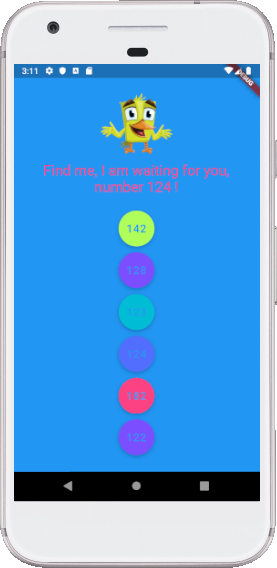
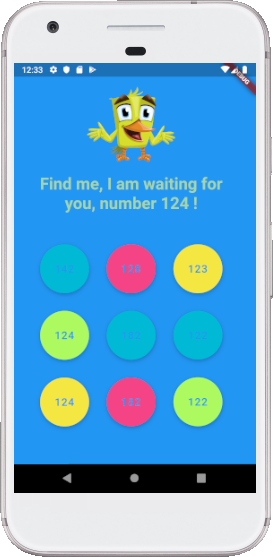
Layout changed

diff --git a/lib/quiz.dart b/lib/quiz.dart
@@ -49,20 +49,47 @@ class _QuizState extends State<Quiz> with TickerProviderStateMixin {
 
   @override
   Widget build(BuildContext context) {
-    return Column(
-      children: [
-        Question(widget.questions[widget.questionIndex]['questioText']),
-        ...(widget.questions[widget.questionIndex]['answers']
-                as List<Map<String, Object>>)
-            .map((answer) {
-          return FadeTransition(
-            opacity: _opacity,
+    return Container(
+      height: 650,
+      width: 400,
+      child: Column(
+        mainAxisAlignment: MainAxisAlignment.center,
+        crossAxisAlignment: CrossAxisAlignment.center,
+        children: <Widget>[
+          Expanded(
+              child: Padding(
+            padding:
+                const EdgeInsets.only(left: 10, top: 20, right: 10, bottom: 0),
+            child:
+                Question(widget.questions[widget.questionIndex]['questioText']),
+          )),
+          Padding(
+            padding:
+                const EdgeInsets.only(left: 30, top: 0, right: 30, bottom: 0),
             child: Container(
-                child: Answer(() => widget.answerQuestion(answer['score']),
-                    answer['text'])),
-          );
-        }).toList(),
-      ],
+              height: 380,
+              child: GridView.count(
+                crossAxisCount: 3,
+                childAspectRatio: 1,
+                children: [
+                  ...(widget.questions[widget.questionIndex]['answers']
+                          as List<Map<String, Object>>)
+                      .map((answer) {
+                    return FadeTransition(
+                      opacity: _opacity,
+                      child: Container(
+                        child: Answer(
+                            () => widget.answerQuestion(answer['score']),
+                            answer['text']),
+                      ),
+                    );
+                  }).toList(),
+                ],
+              ),
+            ),
+          ),
+        ],
+      ),
     );
   }
 }

diff --git a/lib/main.dart b/lib/main.dart
@@ -20,10 +20,11 @@ class _MyAppState extends State<MyApp> {
         {'text': '14', 'score': 14},
         {'text': '17', 'score': 17},
         {'text': '16', 'score': 16},
+        {'text': '18', 'score': 18},
+        {'text': '17', 'score': 17},
+        {'text': '16', 'score': 16},
         {'text': '18', 'score': 18}
       ],
-
-
     },
     {
       'questioText': 'Find me, I am number 40 !',
@@ -31,6 +32,9 @@ class _MyAppState extends State<MyApp> {
         {'text': '42', 'score': 42},
         {'text': '44', 'score': 44},
         {'text': '40', 'score': 40},
+        {'text': '41', 'score': 41},
+        {'text': '45', 'score': 45},
+        {'text': '49', 'score': 49},
         {'text': '41', 'score': 41},
         {'text': '45', 'score': 45},
         {'text': '49', 'score': 49}
@@ -44,6 +48,9 @@ class _MyAppState extends State<MyApp> {
         {'text': '123', 'score': 123},
         {'text': '124', 'score': 124},
         {'text': '182', 'score': 128},
+        {'text': '122', 'value': 122},
+        {'text': '124', 'score': 124},
+        {'text': '182', 'score': 128},
         {'text': '122', 'value': 122}
       ]
     },
@@ -55,6 +62,9 @@ class _MyAppState extends State<MyApp> {
         {'text': '61', 'score': 61},
         {'text': '62', 'score': 62},
         {'text': '63', 'score': 63},
+        {'text': '68', 'score': 68},
+        {'text': '62', 'score': 62},
+        {'text': '63', 'score': 63},
         {'text': '68', 'score': 68}
       ]
     },
@@ -64,6 +74,9 @@ class _MyAppState extends State<MyApp> {
         {'text': '33', 'score': 33},
         {'text': '23', 'score': 23},
         {'text': '32', 'score': 32},
+        {'text': '34', 'score': 34},
+        {'text': '31', 'score': 31},
+        {'text': '38', 'score': 38},
         {'text': '34', 'score': 34},
         {'text': '31', 'score': 31},
         {'text': '38', 'score': 38}

diff --git a/lib/question.dart b/lib/question.dart
@@ -10,29 +10,29 @@ class Question extends StatelessWidget {
     var assetImage = AssetImage('assets/images/image4.png');
     var image = Image(
       image: assetImage,
-      width: 120.0,
-      height: 120.0,
+      width: 150.0,
+      height: 150.0,
     );
 
     return Column(
-        children: <Widget>[
-          Container(
-            margin: EdgeInsets.only(left: 10, top: 40, right: 10, bottom: 5),
-            child: image,
+      children: <Widget>[
+        Container(
+          margin: EdgeInsets.only(left: 10, top: 10, right: 10, bottom: 10),
+          child: image,
+        ),
+        Container(
+          width: double.infinity,
+          margin: EdgeInsets.only(left: 10, top: 0, right: 10, bottom: 10),
+          child: Text(
+            questionText,
+            style: TextStyle(
+                fontSize: 28,
+                fontWeight: FontWeight.bold,
+                color: Colors.green[200]),
+            textAlign: TextAlign.center,
           ),
-          Container(
-            width: double.infinity,
-            margin: EdgeInsets.only(left: 10, top: 0, right: 10, bottom: 20),
-            child: Text(
-              questionText,
-              style: TextStyle(
-                  fontSize: 24,
-                  fontWeight: FontWeight.w400,
-                  color: Colors.pinkAccent),
-              textAlign: TextAlign.center,
-            ),
-          ),
-        ],
+        ),
+      ],
     );
   }
 }

diff --git a/lib/answer.dart b/lib/answer.dart
@@ -31,10 +31,9 @@ class _AnswerState extends State<Answer> {
   @override
   Widget build(BuildContext context) {
     return Container(
-      margin: EdgeInsets.only(left: 60, top: 5, right: 60, bottom: 5),
-      width: double.infinity,
+      margin: EdgeInsets.all(15),
       child: SizedBox(
-        height: 60,
+        height: 10,
         child: FloatingActionButton(
           backgroundColor: _bgColor,
           child: Text(
